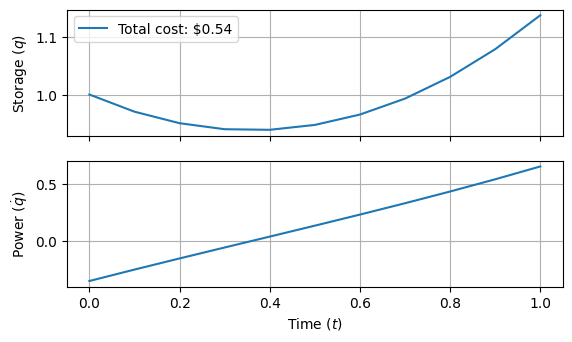
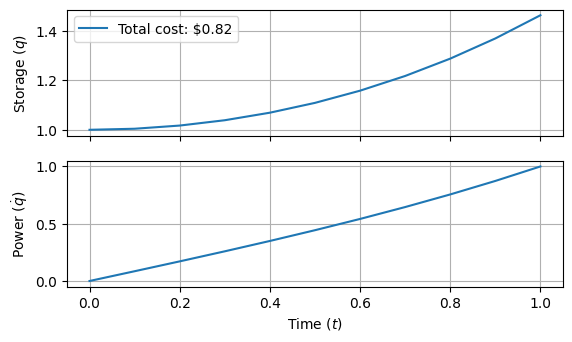
test the general case
only plot the result from the general case

diff --git a/figures/figure_4.py b/figures/figure_4.py
@@ -4,9 +4,9 @@ a_val = 1
 c_val = 1
 SoC   = 1 				# q0, preferred SoC
 Q0_val  = SoC
-test = Dispatch(T=1,a=a_val,c=c_val,Q0=SoC,dQ0=-0.35,QT=None,dQT=None,S=SoC)	# adjust dQ0
+test = Dispatch(T=1,a=a_val,c=c_val,Q0=SoC,dQ0=0,QT=None,dQT=None,S=SoC)	# adjust dQ0
 test.plot().savefig(f"{os.path.splitext(os.path.basename(__file__))[0]}a_S_1.png",bbox_inches='tight')
-test = Dispatch(T=1,a=a_val,c=c_val,Q0=SoC,dQ0=0,QT=None,dQT=1,S=None)			# ok
-test.plot().savefig(f"{os.path.splitext(os.path.basename(__file__))[0]}b_dQ.png",bbox_inches='tight')
-test = Dispatch(T=1,a=a_val,c=c_val,Q0=SoC,dQ0=0,QT=0,dQT=None,S=None)			# note QT -> 0.5
-test.plot().savefig(f"{os.path.splitext(os.path.basename(__file__))[0]}c_Q.png",bbox_inches='tight')
+# test = Dispatch(T=1,a=a_val,c=c_val,Q0=SoC,dQ0=0,QT=None,dQT=1,S=None)			# ok
+# test.plot().savefig(f"{os.path.splitext(os.path.basename(__file__))[0]}b_dQ.png",bbox_inches='tight')
+# test = Dispatch(T=1,a=a_val,c=c_val,Q0=SoC,dQ0=0,QT=0,dQT=None,S=None)			# note QT -> 0.5
+# test.plot().savefig(f"{os.path.splitext(os.path.basename(__file__))[0]}c_Q.png",bbox_inches='tight')

diff --git a/figures/figure_6.py b/figures/figure_6.py
@@ -6,8 +6,8 @@ SoC   = 1 				# q0, preferred SoC
 Q0_val  = SoC
 test = Dispatch(T=1,a=a_val,c=c_val,Q0=SoC,dQ0=-0.35,QT=None,dQT=None,S=SoC)	# adjust dQ0
 test.plot().savefig(f"{os.path.splitext(os.path.basename(__file__))[0]}a_S_1.png",bbox_inches='tight')
-test = Dispatch(T=1,a=a_val,c=c_val,Q0=SoC,dQ0=0,QT=None,dQT=1,S=None)			# ok
-test.plot().savefig(f"{os.path.splitext(os.path.basename(__file__))[0]}b_dQ.png",bbox_inches='tight')
-test = Dispatch(T=1,a=a_val,c=c_val,Q0=SoC,dQ0=0,QT=0.5,dQT=None,S=None)			# note QT -> 0.5
-test.plot().savefig(f"{os.path.splitext(os.path.basename(__file__))[0]}c_Q.png",bbox_inches='tight')
+# test = Dispatch(T=1,a=a_val,c=c_val,Q0=SoC,dQ0=0,QT=None,dQT=1,S=None)			# ok
+# test.plot().savefig(f"{os.path.splitext(os.path.basename(__file__))[0]}b_dQ.png",bbox_inches='tight')
+# test = Dispatch(T=1,a=a_val,c=c_val,Q0=SoC,dQ0=0,QT=0.5,dQT=None,S=None)			# note QT -> 0.5
+# test.plot().savefig(f"{os.path.splitext(os.path.basename(__file__))[0]}c_Q.png",bbox_inches='tight')
 

diff --git a/figures/dispatch.py b/figures/dispatch.py
@@ -66,6 +66,7 @@ class Dispatch:
         elif self.a == 0:
             return self.l/(2*self.c*self.T)*t*t + self.dQ0*t + self.Q0
         else:
+            print(self.l)
             laT = self.l/(self.a*self.T)
             return (self.Q0+laT)*cosh(self.w*t) + (self.dQ0/self.w)*sinh(self.w*t) - laT
 
